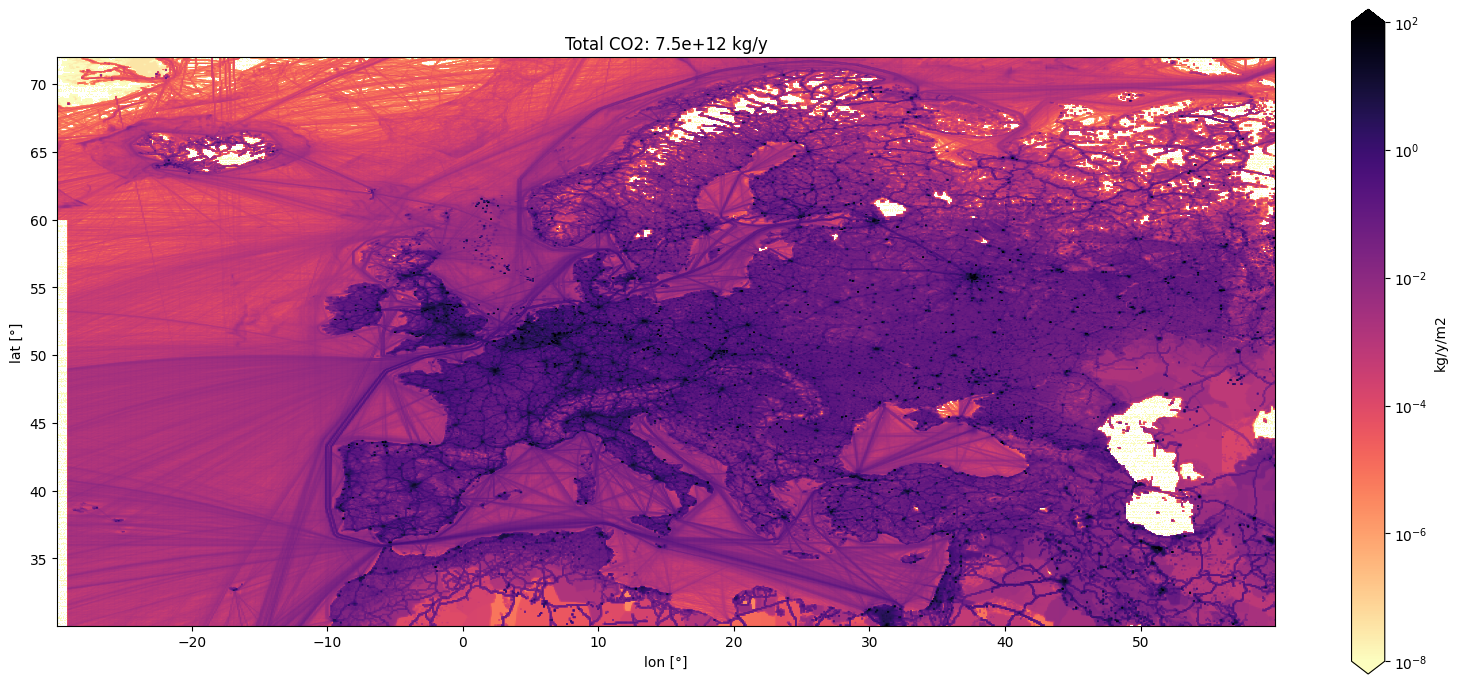
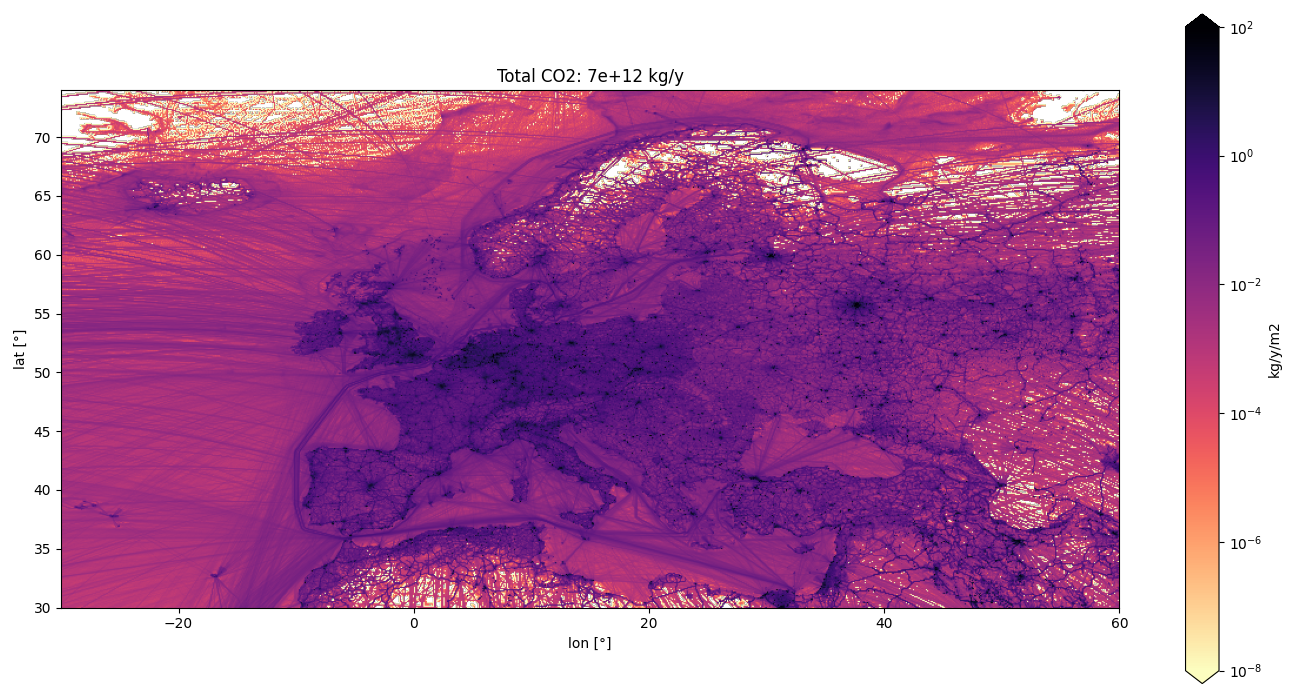
update the picture with edgar instead of tno

diff --git a/joss/paper.md b/joss/paper.md
@@ -48,10 +48,10 @@ An emission inventory is a spatial dataset that reports the yearly amount of pol
 Atmospheric modellers use such inventories to simulate the transport of emitted species in order to compute their distribution and assess their potential impact on the environment.
 The simulations are often compared with measurements to verify if the declared emissions and their trends are consistent with the observed changes in the atmosphere, thereby enhancing confidence in the inventories.
 
-Figure \ref{fig:tno} presents an example of a gridded inventory.
+Figure \ref{fig:edgar} presents an example of a gridded inventory.
 
 
-![CO2 emissions of the year 2015 from the inventory produced by TNO \label{fig:tno}.](raster_total_CO2.png){ width=100% }
+![Anthropogenic CO2 emissions of the year 2022 from the EDGARv6 inventory \label{fig:edgar}.](raster_total_CO2.png){ width=100% }
 
 Inventories are created in multiple different formats and resolutions, which makes it difficult to compare and use them in atmospheric transport models.
 For example, TNO (Dutch Organization for Applied Scientific Research) provides inventories which contains both, area emissions on a regular grid and point
@@ -130,7 +130,7 @@ atmospheric models is done through custom functions that produce all emission in
 model. 
 
 For data vizualisation `emiproc` provides custom functions based on `matplotlib` [@matplotlib].
-Figure \ref{fig:tno} was created using such a function.
+Figure \ref{fig:edgar} was created using such a function.
 
 `emiproc` is built on top of `geopandas` [@kelsey_jordahl_2020_3946761], 
 which allows storing the geometries of the emission maps and offers many functionalities
